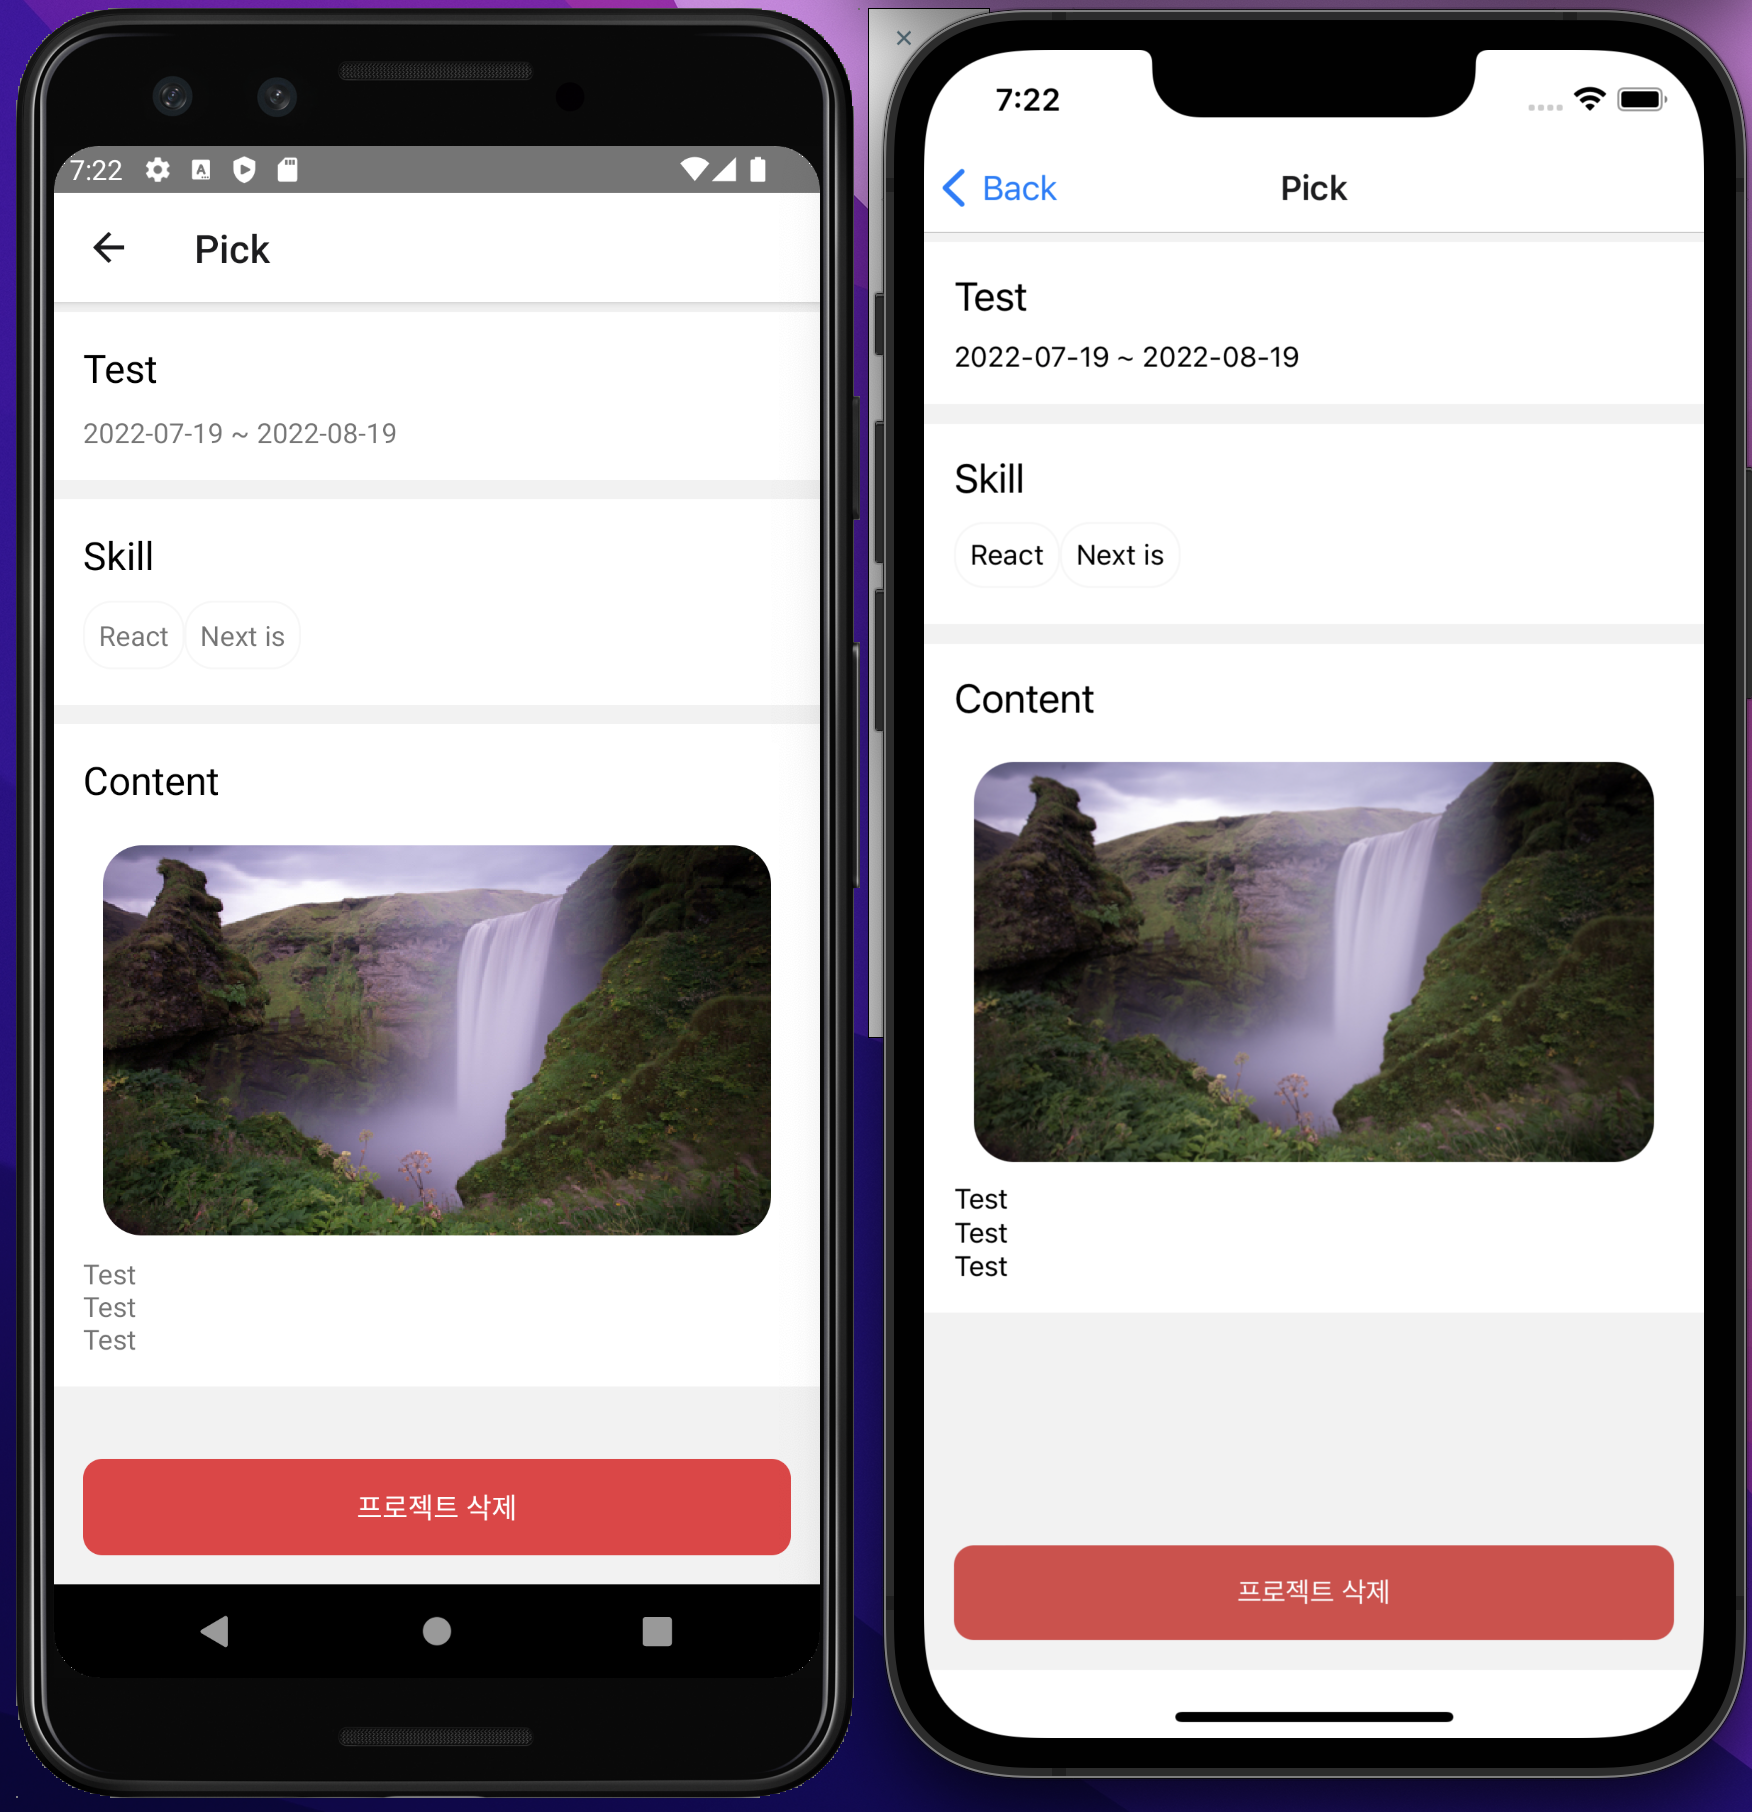
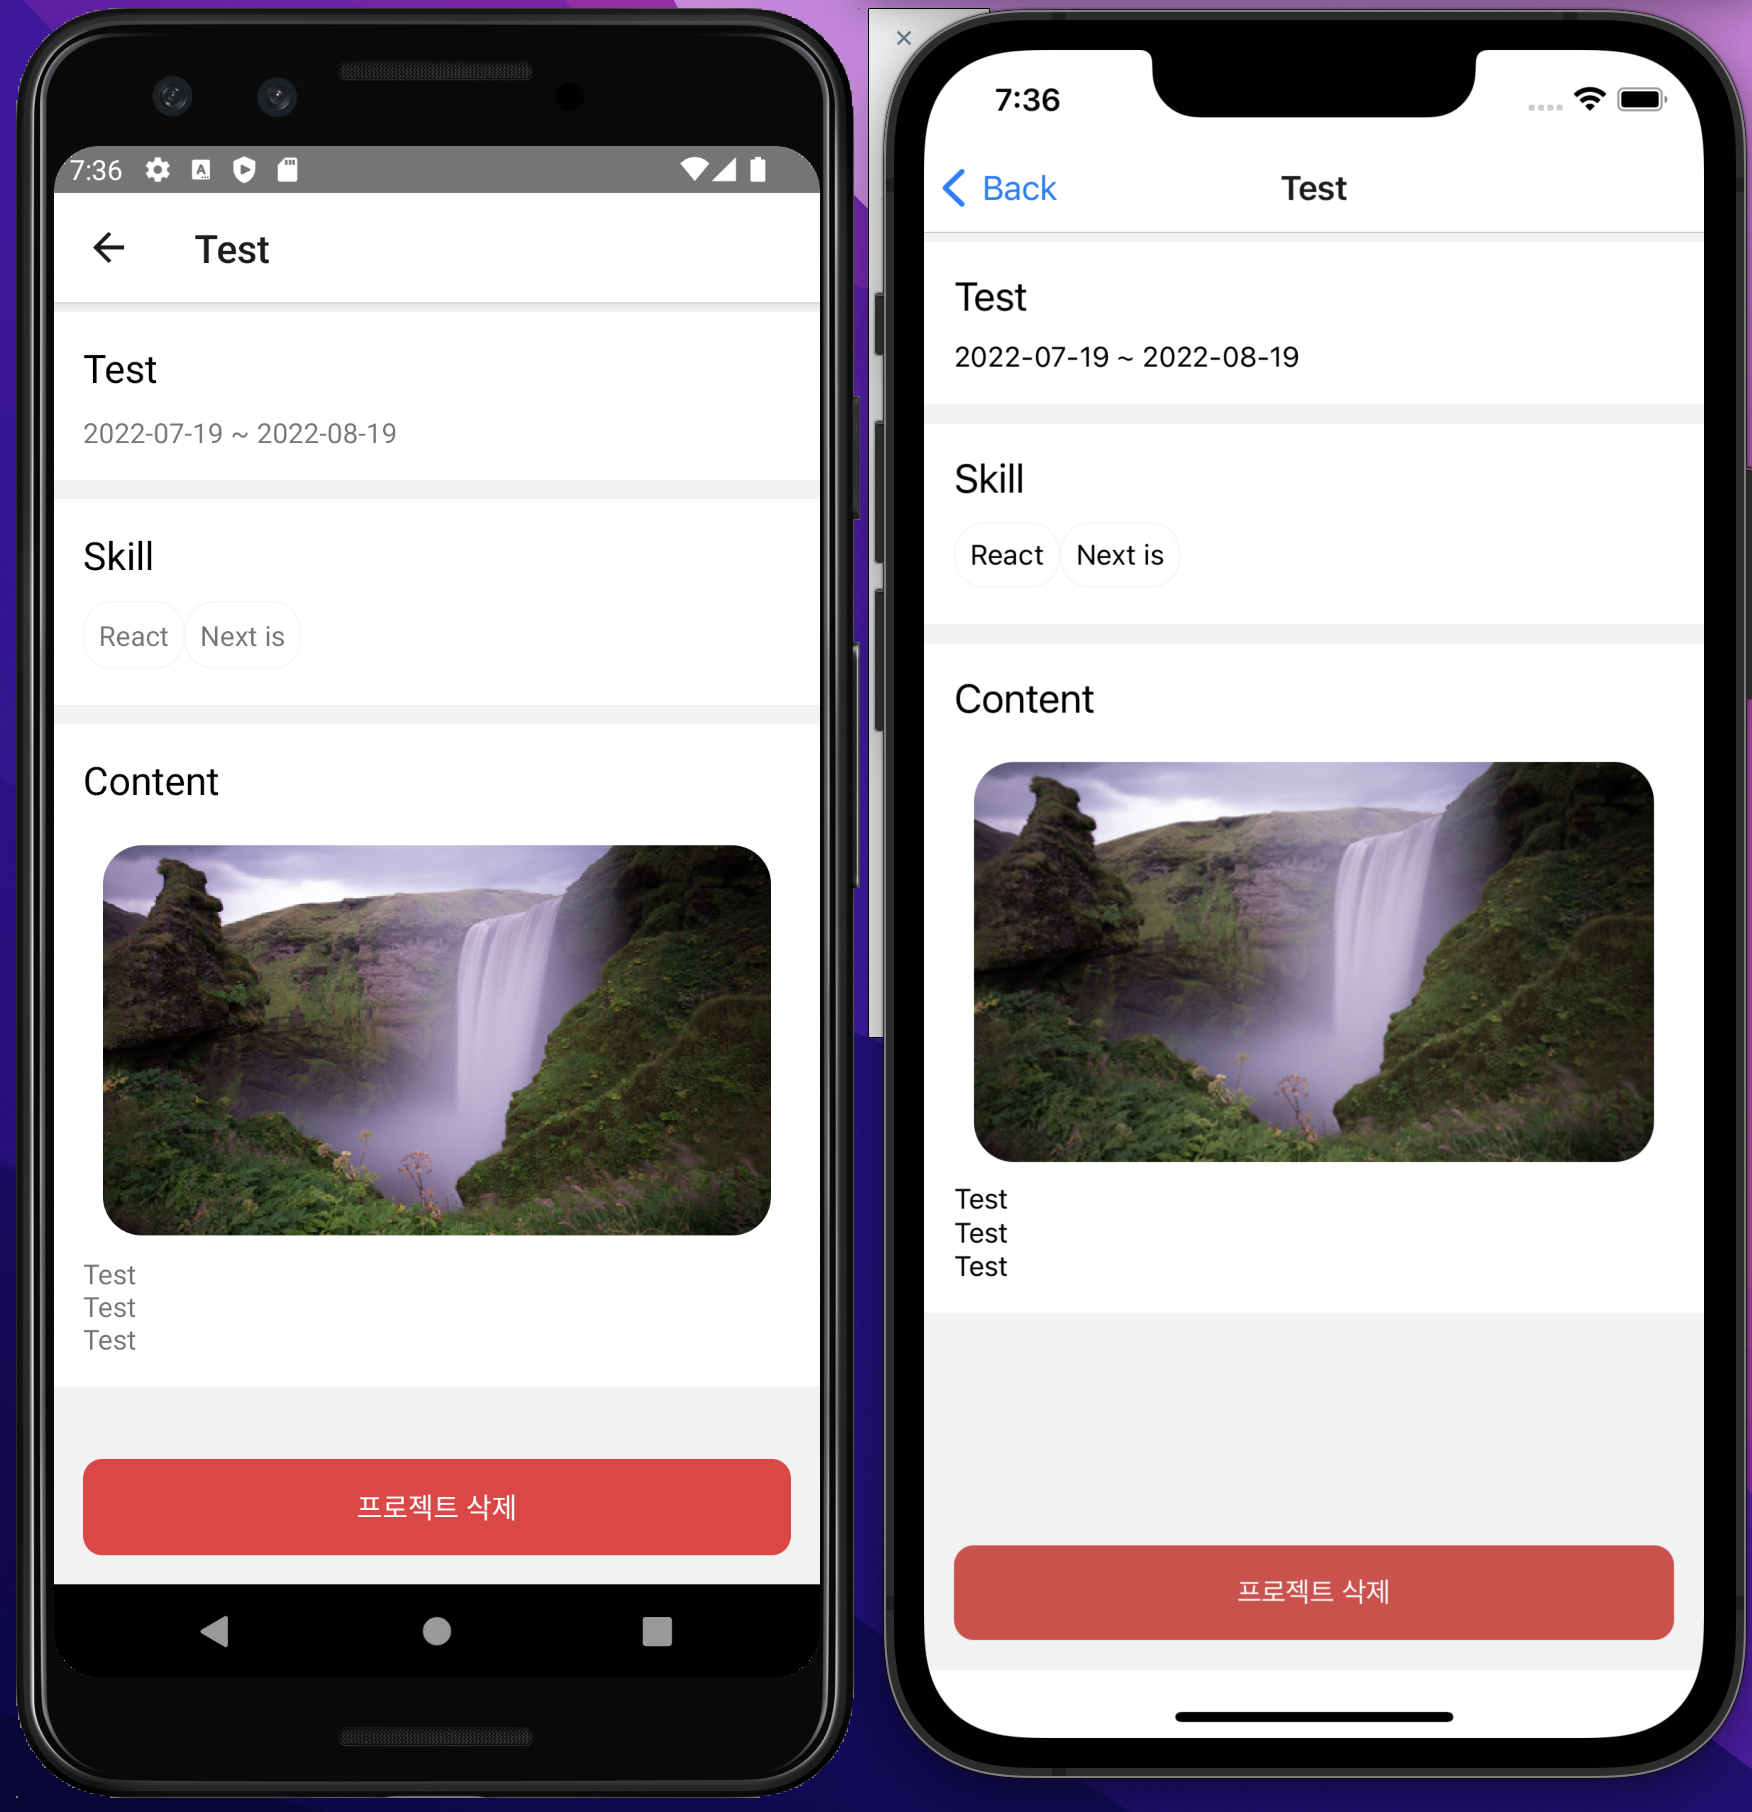
⚡ :: 프로젝트 제목

diff --git a/src/components/ProjectInfo/ProjectInfo.tsx b/src/components/ProjectInfo/ProjectInfo.tsx
@@ -42,9 +42,11 @@ const ProjectInfo = ({navigation, route}: Props) => {
   };
 
   useEffect(() => {
-    navigation.setOptions({title: 'Pick'});
     getUId().then(res => setUid(res));
-    getProject(route.params.id).then(res => setData(res));
+    getProject(route.params.id).then((res: any) => {
+      setData(res);
+      navigation.setOptions({title: res.name});
+    });
   }, [navigation, route]);
 
   return (
